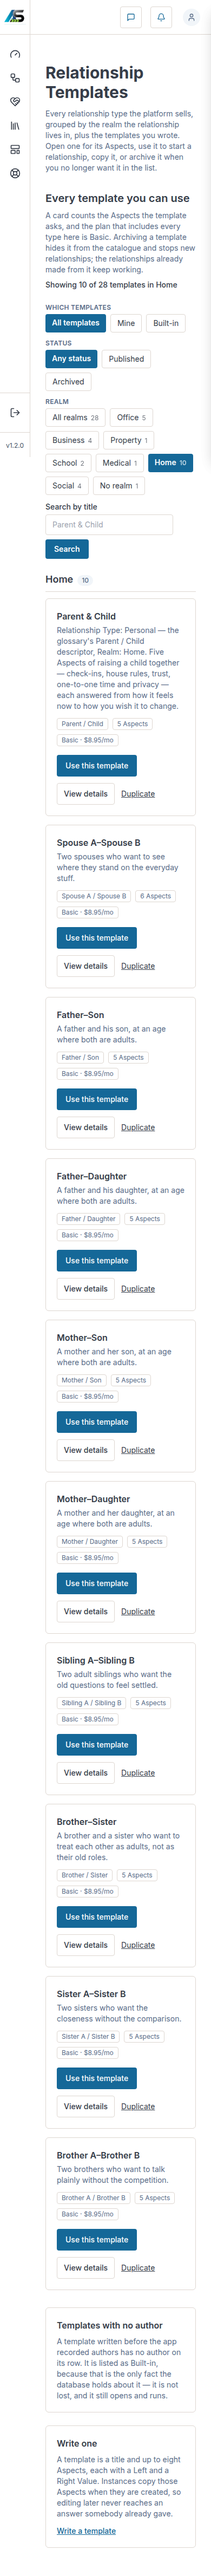
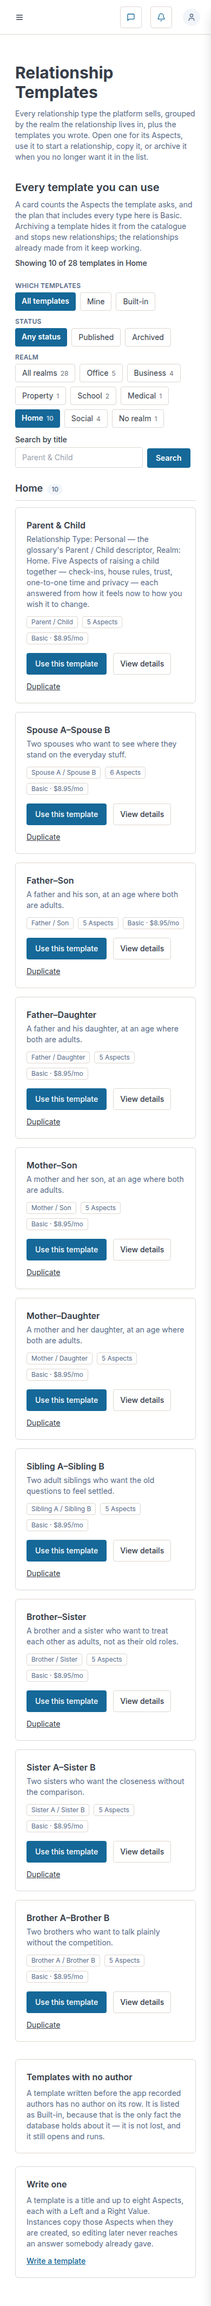
docs(templates): re-capture the catalogue on the rail v4 shell (#465)
The four review shots under docs/qa-template-catalogue/ were taken while the
shell still pinned an icon rail at phone width. #465 replaced it with a drawer
below 768, so the 390 shots documented a chrome that no longer exists.

Re-captured from today's tree with BRAND=alignsynch (next build + start),
Chrome device emulation at 1440x900 and 390x844, innerWidth asserted against
the target after each override:

  templates-1440.png           1440x5804   unchanged height
  templates-1440-filtered.png  1440x2305   unchanged height
  templates-390.png             390x10006   was 390x11292
  templates-390-filtered.png    390x4259    was 390x4757

Same 28 cards in 8 groups, same count line ("Showing 28 of 28" / "Showing 10 of
28 templates in Home"), and scrollWidth === innerWidth at both widths, so still
no horizontal overflow. The page is shorter at phone width because the drawer
gives the cards the full viewport instead of the rail's 64px.

The throwaway /preview/templates route the shots need was rebuilt for the
capture and deleted again before this commit; the README says so, and says the
two things it cannot show (the rail's pathname-derived active state, and the
signed-out account chrome).

Card: t_27648214.

Changed region(s): [[0.0308, 0.0, 0.9231, 0.9993], [0.7692, 0.5621, 0.8308, 0.5933], [0.7692, 0.4996, 0.8, 0.5309]]

diff --git a/docs/qa-template-catalogue/README.md b/docs/qa-template-catalogue/README.md
@@ -1,9 +1,10 @@
 # Template catalogue — the pages, looked at
 
-Four screenshots from the AlignSynch build (`BRAND=alignsynch pnpm build`, `next start` on
-`:3137`), captured at 1440×900 and 390×844 through Chrome's device emulation. They exist because
-a string assertion cannot tell you what a 27-type catalogue looks like: the markup can be right
-and the page can still read as a wall of repeated chips.
+Four screenshots from the AlignSynch build (`BRAND=alignsynch pnpm build`, `next start` on a free
+port), captured at 1440×900 and 390×844 through Chrome's device emulation, with `innerWidth`
+checked against the target after every override. They exist because a string assertion cannot tell
+you what a 27-type catalogue looks like: the markup can be right and the page can still read as a
+wall of repeated chips.
 
 | file                          | what it is                                                                     |
 | ----------------------------- | ------------------------------------------------------------------------------ |
@@ -11,6 +12,19 @@ and the page can still read as a wall of repeated chips.
 | `templates-1440-filtered.png` | the same page with `?realm=Home` applied — 10 cards, count line moved, desktop |
 | `templates-390.png`           | the whole catalogue at phone width                                             |
 | `templates-390-filtered.png`  | `?realm=Home` at phone width — no horizontal overflow at either width          |
+
+## Re-captured on the rail v4 shell
+
+The first pair was taken while the app shell still pinned an icon rail at phone width. #465 replaced
+that with a drawer below 768 px, which gives the catalogue the full viewport: the phone shots are
+now **10,006 px** (whole catalogue) and **4,259 px** (`?realm=Home`) instead of 11,292 and 4,757 —
+same 28 cards, same 8 groups, same count line, and still no horizontal overflow
+(`scrollWidth === innerWidth`, checked at both widths). The desktop shots keep their heights
+(5,804 px and 2,305 px); the chrome above them changed with the rail.
+
+Two things these shots do not show, because the preview route below is not the real path: the rail
+does not highlight **Templates** (its active state is derived from the pathname), and the account
+chrome is the signed-out one.
 
 ## `/assessment/templates` needs a session, and these shots do not enter one
 
